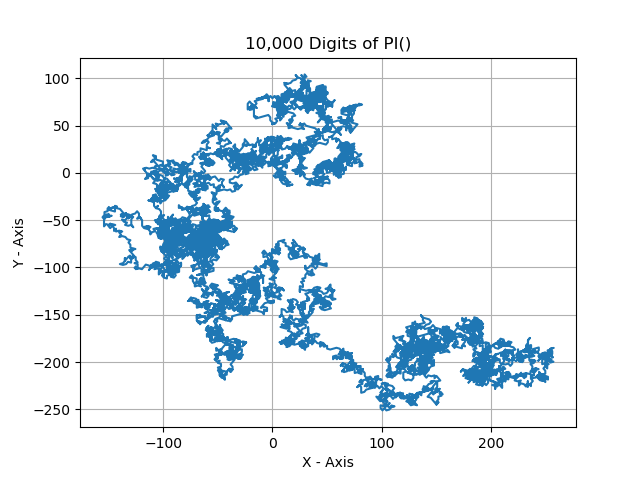
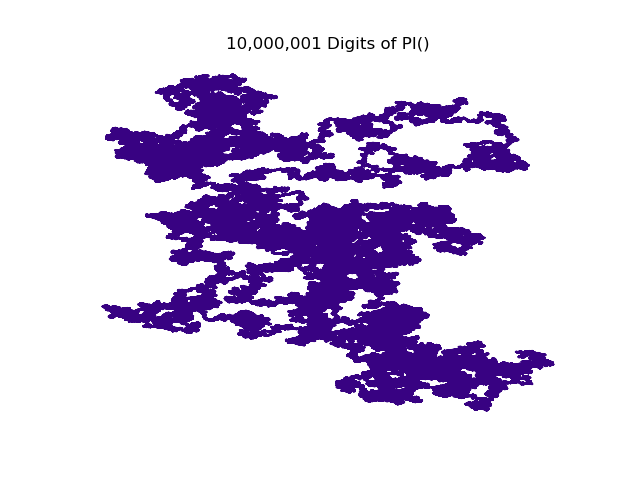
.

diff --git a/Pi() projects/present.py b/Pi() projects/present.py
@@ -2,7 +2,7 @@
 import matplotlib.pyplot as plt
 import pandas
 
-f = open("C:\\Users\\csb003\\Documents\\NCHpython\\Pi() projects\\10k-DigitsPi.txt", "r")
+f = open("C:\\Users\\csb003\\Documents\\NCHpython\\Pi() projects\\10m-PiDigits.txt", "r")
 piData = f.read()
 f.close()
 
@@ -10,7 +10,7 @@ f.close()
 xDict = {'0': 0, '1': 1.7633558, '2': 2.8531695, '3': 2.8531695, '4': 1.7633558, '5': 0, '6': -1.7633558, '7': -2.8531695, '8': -2.8531695, '9': -1.7633558}
 yDict = {'0': 3, '1': 2.427051, '2': 0.927051, '3': -0.927051, '4': -2.427051, '5': -3, '6': -2.427051, '7': -0.927051, '8': 0.927051, '9': 2.427051}
 
-x, y = [],[]
+x, y = [0],[0]
 NewX = 0
 NewY = 0
 
@@ -24,12 +24,15 @@ for digit in piData:
 #   Plot the data
 
 fig, ax = plt.subplots()
-ax.plot(x, y)
+
+# https://www.w3schools.com/colors/colors_xkcd.asp
+ax.plot(x, y, 'xkcd:indigo')
 
 Title = "{:,}".format(len(x)-1) + " Digits of PI()"
 
-ax.set(xlabel='X - Axis', ylabel='Y - Axis', title= Title)
-ax.grid()
+ax.set_axis_off()
+ax.set(title= Title)
+ax.grid(False)
 
 fig.savefig("C:\\Users\\csb003\\Documents\\NCHpython\\Pi() projects\\test.png")
 
